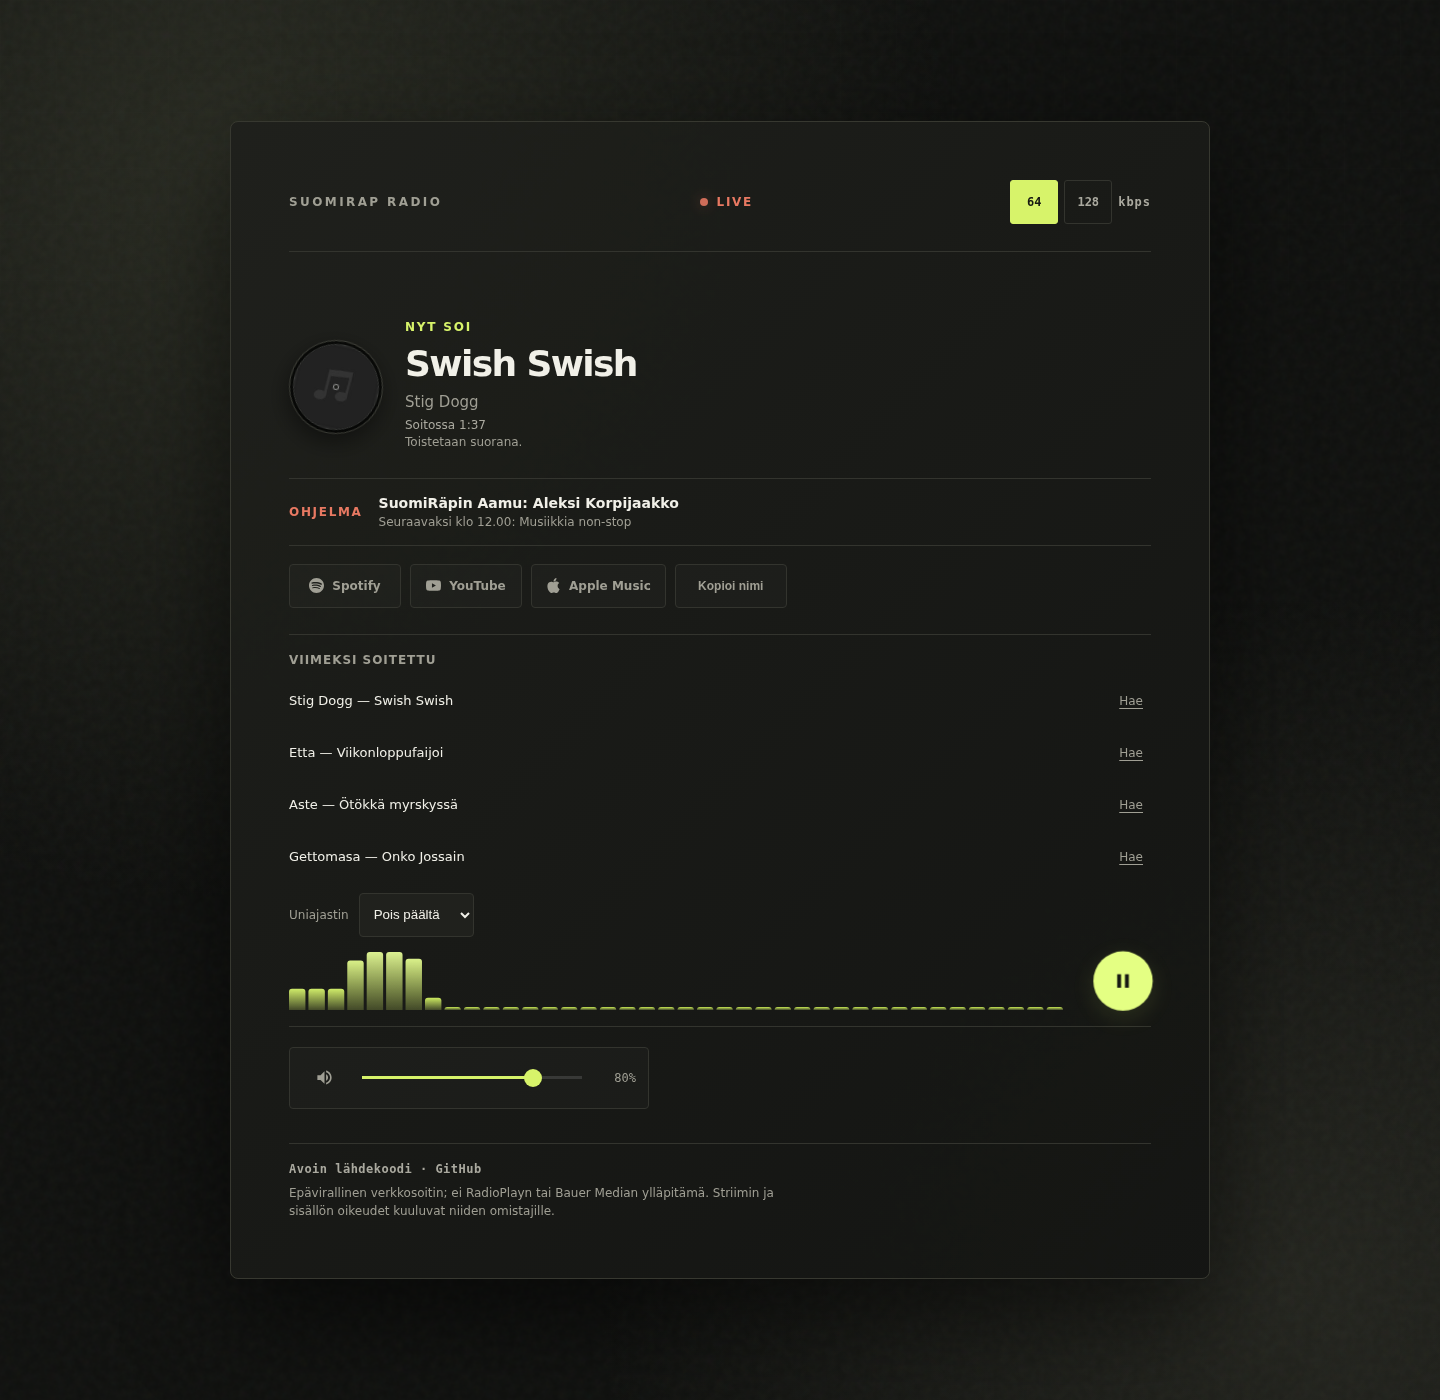
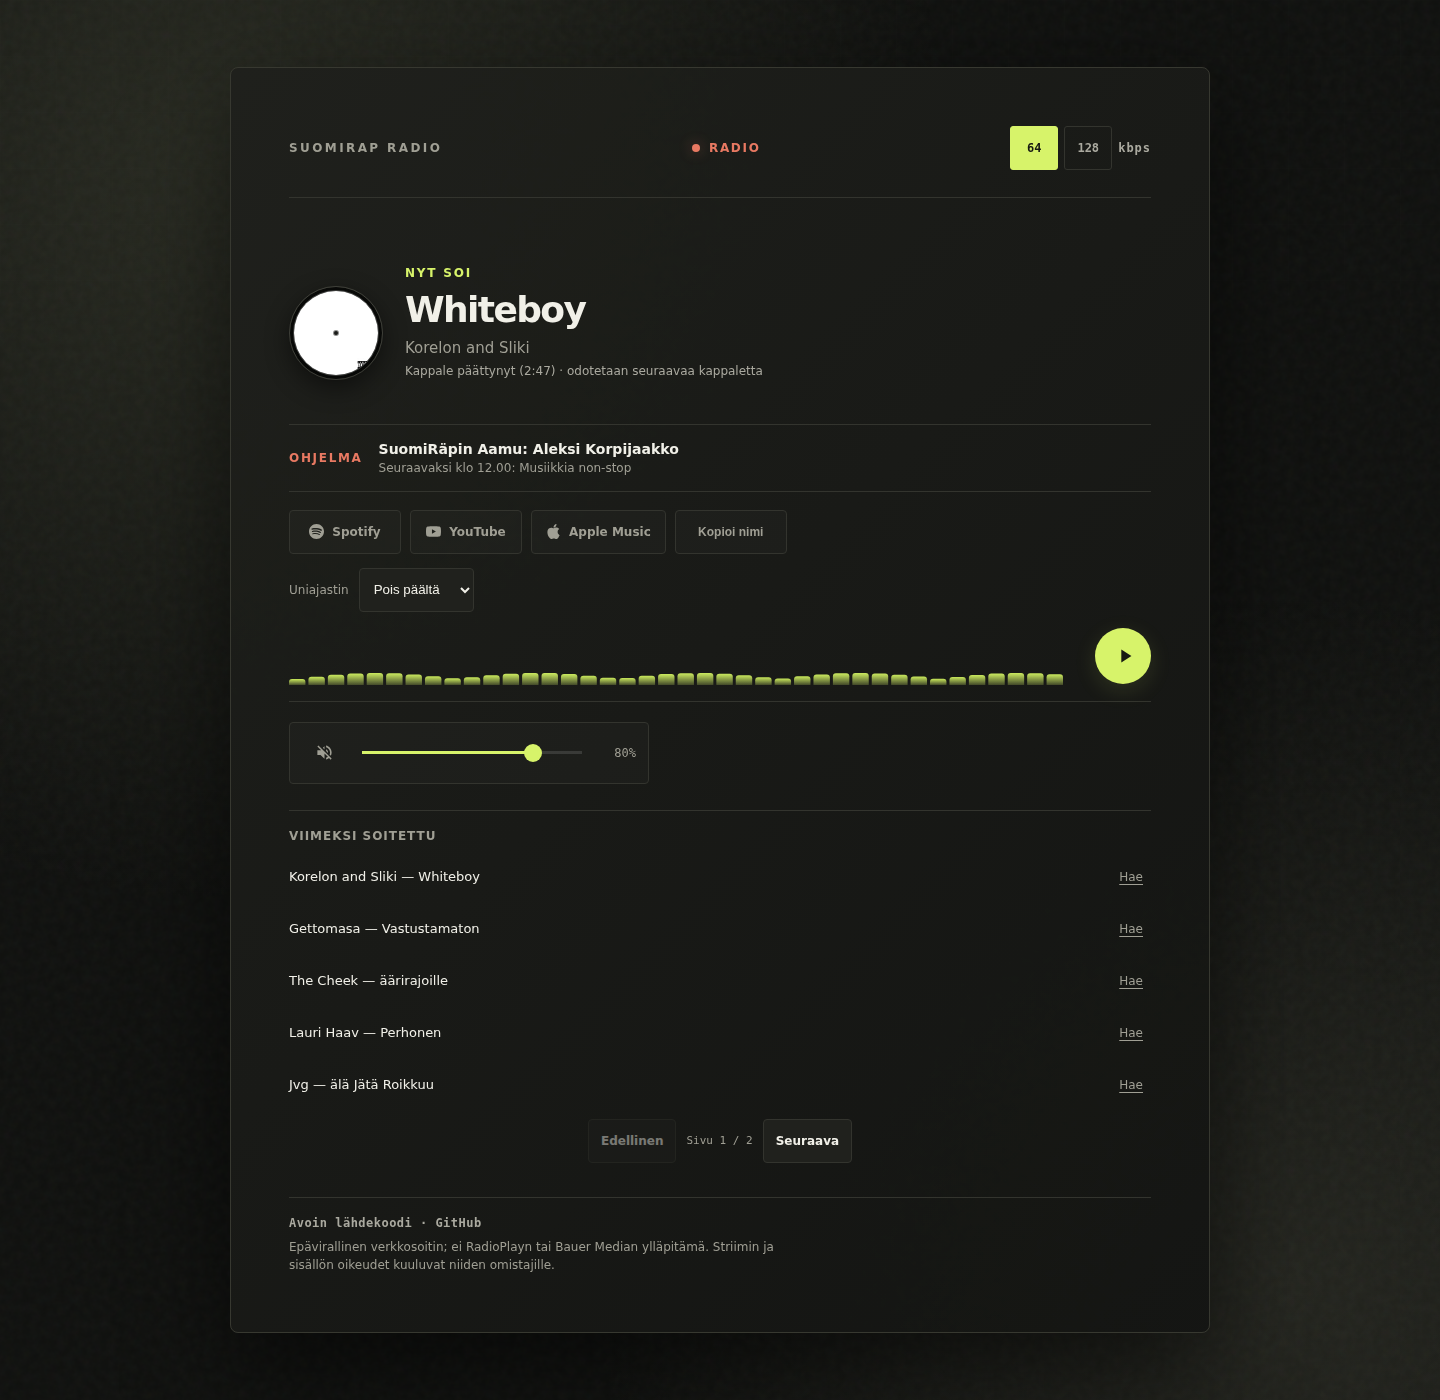
feat: make track timing duration-aware and page history
FEATURE (2):
- cap elapsed track display at reported duration and show a wait state
- move recent tracks below playback controls and paginate five entries per page

TEST (1):
- cover duration grace, track timing, and history page boundaries

DOCS (1):
- describe duration-based status and refresh the player screenshot

diff --git a/public/player.js b/public/player.js
@@ -25,6 +25,10 @@
   const streamBadge = $("streamBadge");
   const historySection = $("historySection");
   const historyList = $("historyList");
+  const historyPagination = $("historyPagination");
+  const historyPrevious = $("historyPrevious");
+  const historyNext = $("historyNext");
+  const historyPageStatus = $("historyPageStatus");
   const shareTrackBtn = $("shareTrackBtn");
   const airplayBtn = $("airplayBtn");
 
@@ -47,6 +51,8 @@
   const FALLBACK_COVER = "/cover-fallback.svg";
   const reduceMotion =
     window.matchMedia?.("(prefers-reduced-motion: reduce)").matches || false;
+  const { getTrackTiming, paginateHistory } = window.RadioPlayerUtils;
+  const HISTORY_PAGE_SIZE = 5;
 
   let bitrate = Number.parseInt(STORAGE.get("bitrate"), 10);
   if (bitrate !== 64 && bitrate !== 128) bitrate = 64;
@@ -83,6 +89,7 @@
   let currentTrack = null;
   let currentTrackKey = "";
   let trackStartedAt = "";
+  let historyPage = 0;
   const canvas = $("viz");
   const ctx = canvas.getContext("2d");
   const BAR_COUNT = 40;
@@ -400,20 +407,23 @@
   }
 
   function updateTrackAge() {
-    if (!trackStartedAt) {
+    const timing = getTrackTiming(trackStartedAt, currentTrack?.trackDuration);
+    if (timing.state === "unknown") {
       npFresh.textContent = "";
       return;
     }
-    const started = new Date(trackStartedAt).getTime();
-    if (!Number.isFinite(started)) {
-      npFresh.textContent = "";
+    const minutes = Math.floor(timing.elapsedSeconds / 60);
+    const seconds = String(timing.elapsedSeconds % 60).padStart(2, "0");
+    if (timing.state === "awaiting-next") {
+      npFresh.textContent = `Keston mukaan valmis (${minutes}:${seconds}) · odotetaan seuraavaa kappaletta`;
       return;
     }
-    const elapsed = Math.max(0, Math.floor((Date.now() - started) / 1000));
-    const minutes = Math.floor(elapsed / 60);
-    const seconds = String(elapsed % 60).padStart(2, "0");
     npFresh.textContent = `Soitossa ${minutes}:${seconds}`;
   }
+
+  setInterval(() => {
+    if (!document.hidden) updateTrackAge();
+  }, 1000);
 
   function renderHistory() {
     let items = [];
@@ -431,9 +441,21 @@
     } catch {
       items = [];
     }
+
+    const page = paginateHistory(items, historyPage, HISTORY_PAGE_SIZE);
+    historyPage = page.page;
     historyList.replaceChildren();
     historySection.hidden = items.length === 0;
-    for (const item of items) {
+    historyPagination.hidden = page.pageCount <= 1;
+    historyPrevious.disabled = page.page === 0;
+    historyNext.disabled = page.page >= page.pageCount - 1;
+    historyPageStatus.textContent = `Sivu ${page.page + 1} / ${page.pageCount}`;
+    historyList.setAttribute(
+      "aria-label",
+      `Viimeksi soitettujen kappaleiden sivu ${page.page + 1}`,
+    );
+
+    for (const item of page.items) {
       const li = document.createElement("li");
       li.className = "history-item";
       const text = document.createElement("span");
@@ -452,6 +474,15 @@
     }
   }
 
+  historyPrevious.addEventListener("click", () => {
+    historyPage--;
+    renderHistory();
+  });
+  historyNext.addEventListener("click", () => {
+    historyPage++;
+    renderHistory();
+  });
+
   function saveHistory(track, artist) {
     let items = [];
     try {
@@ -465,6 +496,7 @@
     );
     items.unshift({ track, artist });
     STORAGE.set("trackHistory", JSON.stringify(items.slice(0, 8)));
+    historyPage = 0;
     renderHistory();
   }
 
@@ -551,6 +583,10 @@
       artist,
       image: data.image || "",
       appleMusic: data.appleMusic || "",
+      trackDuration:
+        Number.isFinite(data.trackDuration) && data.trackDuration > 0
+          ? data.trackDuration
+          : null,
     };
     if (changed) {
       currentTrackKey = key;

diff --git a/tests/player-utils.test.js b/tests/player-utils.test.js
@@ -1,0 +1,77 @@
+import test from "node:test";
+import assert from "node:assert/strict";
+import { readFile } from "node:fs/promises";
+import { runInNewContext } from "node:vm";
+
+const source = await readFile(
+  new URL("../public/player-utils.js", import.meta.url),
+  "utf8",
+);
+const window = {};
+runInNewContext(source, { window });
+const { getTrackTiming, paginateHistory } = window.RadioPlayerUtils;
+
+test("caps elapsed time at the reported track duration and marks the next-track wait", () => {
+  const start = Date.parse("2026-09-30T10:00:00Z");
+  const beforeEnd = getTrackTiming(
+    "2026-09-30T10:00:00Z",
+    216,
+    start + 215_000,
+  );
+  assert.equal(beforeEnd.state, "playing");
+  assert.equal(beforeEnd.elapsedSeconds, 215);
+  assert.equal(beforeEnd.remainingSeconds, 1);
+
+  const afterGrace = getTrackTiming(
+    "2026-09-30T10:00:00Z",
+    216,
+    start + 231_000,
+  );
+  assert.equal(afterGrace.state, "awaiting-next");
+  assert.equal(afterGrace.elapsedSeconds, 216);
+  assert.equal(afterGrace.remainingSeconds, 0);
+});
+
+test("keeps counting when duration is unavailable and rejects an invalid start time", () => {
+  const running = getTrackTiming(
+    "2026-09-30T10:00:00Z",
+    null,
+    Date.parse("2026-09-30T10:04:09Z"),
+  );
+  assert.equal(running.state, "playing");
+  assert.equal(running.elapsedSeconds, 249);
+  assert.equal(running.durationSeconds, null);
+  assert.equal(running.remainingSeconds, null);
+
+  assert.equal(getTrackTiming("not-a-time", 180).state, "unknown");
+});
+
+test("splits history into five-item pages without losing the remaining entries", () => {
+  const entries = Array.from({ length: 8 }, (_, index) => index + 1);
+  const first = paginateHistory(entries, 0, 5);
+  assert.deepEqual(Array.from(first.items), [1, 2, 3, 4, 5]);
+  assert.equal(first.page, 0);
+  assert.equal(first.pageCount, 2);
+  assert.equal(first.totalItems, 8);
+
+  const second = paginateHistory(entries, 1, 5);
+  assert.deepEqual(Array.from(second.items), [6, 7, 8]);
+  assert.equal(second.page, 1);
+  assert.equal(second.pageCount, 2);
+});
+
+test("clamps invalid history pages and handles an empty history", () => {
+  const entries = ["a", "b", "c"];
+  const pastEnd = paginateHistory(entries, 8, 2);
+  assert.equal(pastEnd.page, 1);
+  assert.deepEqual(Array.from(pastEnd.items), ["c"]);
+
+  const beforeStart = paginateHistory(entries, -4, 2);
+  assert.equal(beforeStart.page, 0);
+  assert.deepEqual(Array.from(beforeStart.items), ["a", "b"]);
+
+  const empty = paginateHistory([], 0, 5);
+  assert.equal(empty.page, 0);
+  assert.equal(empty.pageCount, 1);
+  assert.deepEqual(Array.from(empty.items), []);
+});

diff --git a/public/index.html b/public/index.html
@@ -177,16 +177,6 @@
         </button>
       </div>
 
-      <section
-        class="history"
-        id="historySection"
-        hidden
-        aria-labelledby="historyHeading"
-      >
-        <h2 id="historyHeading">Viimeksi soitettu</h2>
-        <ol class="history-list" id="historyList"></ol>
-      </section>
-
       <div class="utility-row">
         <label for="sleepTimer">Uniajastin</label>
         <select id="sleepTimer" aria-label="Uniajastin">
@@ -257,6 +247,47 @@
         <span class="vol-value" id="volValue">80%</span>
       </div>
 
+      <section
+        class="history"
+        id="historySection"
+        hidden
+        aria-labelledby="historyHeading"
+      >
+        <h2 id="historyHeading">Viimeksi soitettu</h2>
+        <ol class="history-list" id="historyList"></ol>
+        <nav
+          class="history-pagination"
+          id="historyPagination"
+          aria-label="Viimeksi soitettujen kappaleiden sivutus"
+          hidden
+        >
+          <button
+            class="history-page-button"
+            id="historyPrevious"
+            type="button"
+            aria-label="Edellinen historiakappalesivu"
+            aria-controls="historyList"
+          >
+            Edellinen
+          </button>
+          <span
+            class="history-page-status"
+            id="historyPageStatus"
+            role="status"
+            aria-live="polite"
+          ></span>
+          <button
+            class="history-page-button"
+            id="historyNext"
+            type="button"
+            aria-label="Seuraava historiakappalesivu"
+            aria-controls="historyList"
+          >
+            Seuraava
+          </button>
+        </nav>
+      </section>
+
       <footer class="footer">
         <a
           href="https://github.com/ZoniBoy00/suomirap-redirect"
@@ -279,6 +310,7 @@
     >
     <audio id="player" preload="none" crossorigin="anonymous"></audio>
 
+    <script src="/player-utils.js" defer></script>
     <script src="/player.js" defer></script>
   </body>
 </html>

diff --git a/public/player-utils.js b/public/player-utils.js
@@ -1,0 +1,60 @@
+(() => {
+  function getTrackTiming(
+    startedAt,
+    durationSeconds,
+    nowMs = Date.now(),
+    graceSeconds = 15,
+  ) {
+    const startMs = Date.parse(startedAt);
+    if (!Number.isFinite(startMs) || !Number.isFinite(nowMs)) {
+      return {
+        state: "unknown",
+        elapsedSeconds: 0,
+        durationSeconds: null,
+        remainingSeconds: null,
+      };
+    }
+
+    const elapsed = Math.max(0, Math.floor((nowMs - startMs) / 1000));
+    const duration = Number(durationSeconds);
+    const hasDuration = Number.isFinite(duration) && duration > 0;
+    const trackDuration = hasDuration ? Math.floor(duration) : null;
+    const grace = Number.isFinite(graceSeconds)
+      ? Math.max(0, graceSeconds)
+      : 15;
+
+    return {
+      state:
+        hasDuration && elapsed >= trackDuration + grace
+          ? "awaiting-next"
+          : "playing",
+      elapsedSeconds: hasDuration ? Math.min(elapsed, trackDuration) : elapsed,
+      durationSeconds: trackDuration,
+      remainingSeconds: hasDuration
+        ? Math.max(0, trackDuration - elapsed)
+        : null,
+    };
+  }
+
+  function paginateHistory(items, requestedPage, requestedPageSize = 5) {
+    const entries = Array.isArray(items) ? items : [];
+    const pageSize =
+      Number.isInteger(requestedPageSize) && requestedPageSize > 0
+        ? requestedPageSize
+        : 5;
+    const pageCount = Math.max(1, Math.ceil(entries.length / pageSize));
+    const page = Math.min(
+      Math.max(Number.isInteger(requestedPage) ? requestedPage : 0, 0),
+      pageCount - 1,
+    );
+
+    return {
+      items: entries.slice(page * pageSize, (page + 1) * pageSize),
+      page,
+      pageCount,
+      totalItems: entries.length,
+    };
+  }
+
+  window.RadioPlayerUtils = Object.freeze({ getTrackTiming, paginateHistory });
+})();

diff --git a/public/styles.css b/public/styles.css
@@ -379,6 +379,49 @@ body {
   outline: 2px solid var(--accent);
   outline-offset: 3px;
 }
+.history-pagination {
+  display: flex;
+  align-items: center;
+  justify-content: center;
+  gap: 10px;
+  margin-top: 12px;
+}
+.history-page-button {
+  min-height: 44px;
+  padding: 0 12px;
+  color: var(--text);
+  background: var(--panel-2);
+  border: 1px solid var(--line);
+  border-radius: 4px;
+  font-family: inherit;
+  font-size: 12px;
+  font-weight: 650;
+  cursor: pointer;
+  transition:
+    border-color 0.2s,
+    color 0.2s,
+    opacity 0.2s;
+}
+.history-page-button:hover:not(:disabled) {
+  color: var(--accent);
+  border-color: var(--accent);
+}
+.history-page-button:focus-visible {
+  outline: 2px solid var(--accent);
+  outline-offset: 3px;
+}
+.history-page-button:disabled {
+  opacity: 0.45;
+  cursor: not-allowed;
+}
+.history-page-status {
+  min-width: 58px;
+  color: var(--muted);
+  font:
+    11px ui-monospace,
+    monospace;
+  text-align: center;
+}
 .utility-row {
   display: flex;
   flex-wrap: wrap;

diff --git a/README.md b/README.md
@@ -10,7 +10,9 @@ An unofficial Vercel-hosted stream redirect and web player for Suomirap. It is n
 
 - 64 kbps AAC and 128 kbps MP3 stream choices.
 - Responsive dark player with playback state, volume, audio visualizer, album artwork, and a fallback cover.
-- Track and artist metadata, current and next scheduled show, service search links, track history, copy/share actions, and a sleep timer.
+- Track and artist metadata, current and next scheduled show, service search links, copy/share actions, and a sleep timer.
+- Track time stops at the reported duration; if the next track metadata has not arrived, the player shows that it is waiting instead of counting through a possible talk/ad break.
+- Track history is at the bottom of the player, with at most five entries per page.
 - Keyboard shortcuts: Space toggles playback, `M` toggles mute, and Up/Down adjusts volume when focus is not in a form control.
 - Media Session metadata and media-button play/pause support where the browser provides the API.
 - Remembered quality and volume settings. Storage failures are handled without preventing playback.
@@ -41,7 +43,7 @@ npm run check
 npm test
 ```
 
-`npm run check` validates the static HTML shell, player JavaScript, configured security headers and required assets, runs API syntax checks, and checks Prettier formatting. `npm test` runs the built-in Node test runner against saved API fixtures and endpoint behavior.
+`npm run check` validates the static HTML shell, player JavaScript and timing utility, configured security headers and required assets, runs syntax checks, and checks Prettier formatting. `npm test` runs the built-in Node test runner against API fixtures, endpoint behavior, track timing, and history pagination.
 
 GitHub Actions runs the checks on pushes to `master` and pull requests. A scheduled monitor checks the deployed `/api/health` and `/api/nowplaying` endpoints every 15 minutes, opens one issue when a check fails, and closes it after recovery. It uses GitHub's own issue/API logs; no third-party telemetry service is installed.
 
